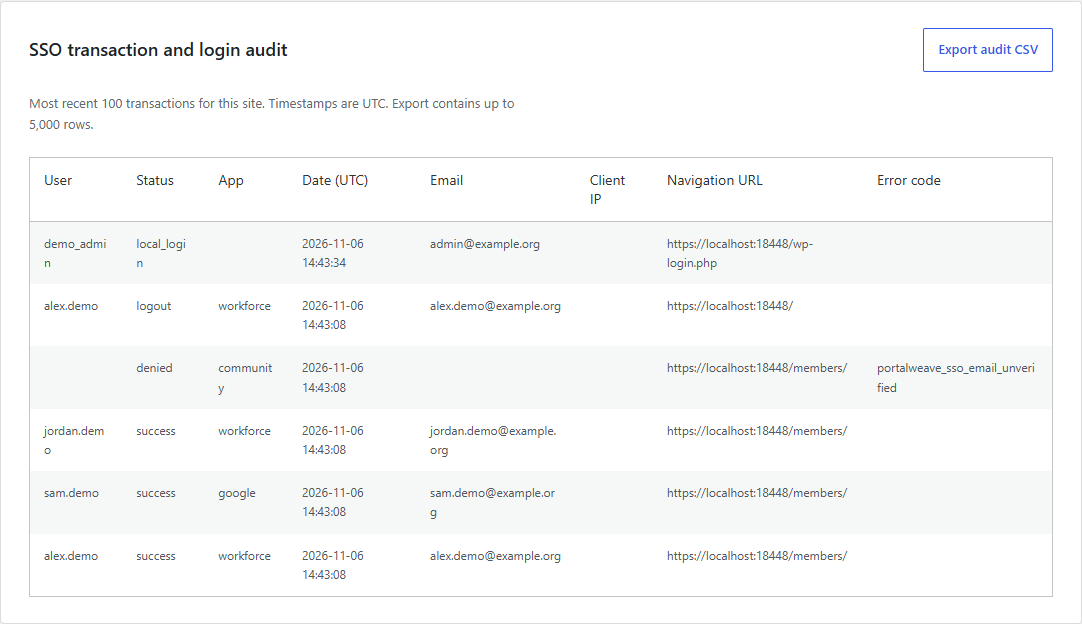
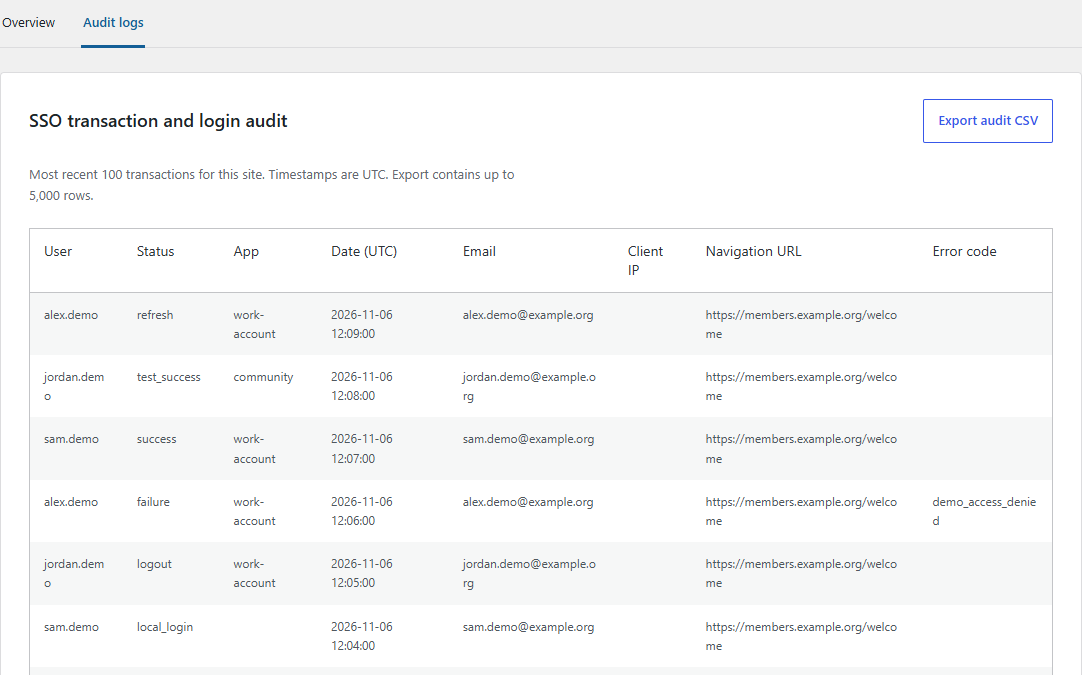
docs: explain activity charts and refresh screenshots

diff --git a/docs/admin-design.md b/docs/admin-design.md
@@ -10,7 +10,7 @@ PortalWeave's administrator UI is organized around tasks, using server-rendered 
 | Access policies | Site/domain/content/media restrictions and network enforcement |
 | Appearance | Login buttons, widget text and signed-in messages |
 | Integrations | Optional modules, SCIM/shared credentials and AI abilities |
-| Activity | Audit transactions, collection choices, retention and debugging |
+| Activity | Retained-event overview, audit logs, collection choices, retention and debugging |
 | Tools & support | Configuration backup/restore, troubleshooting and support |
 
 Navigation uses real URLs and works without JavaScript. The current screen is marked with `aria-current="page"`. Overview and the provider list render no settings form. Each editor posts its explicit screen scope, preserves the truncation sentinel and returns to that screen after saving or validation failure. Adding a provider uses a separate `new_provider=1` flag; an existing provider whose ID is `new` remains editable normally.
@@ -37,6 +37,26 @@ Validated provider, settings, import and support submissions show an action-spec
 
 Guided forms submit an explicitly allowed scalar `provider_setup` map, accepted only for new-provider creation and never alongside an existing provider map. `ProviderSetup::prepare()` validates the selected catalog, fields, conditions, HTTPS addresses, issuer conventions and opaque credentials, then derives the ordinary provider configuration on the server. `AdminSettings::prepare()` reuses its existing one-provider preservation path before `Config::save()`. JavaScript does not supply authoritative endpoints or policy defaults. Unsupported discovery assumptions are exposed as explicit provider inputs rather than fetched remotely or filled with placeholders.
 
+## Activity views
+
+Activity opens Overview by default, with a separate Audit logs view. Ordinary server-rendered links preserve browser history and work without JavaScript. GET `activity_view` accepts only `overview` or `audit`; `activity_days` accepts 7, 30 or 90, defaulting to 30. Audit preference forms carry the corresponding allowlisted POST context so scoped saves and validation errors return to the same view and overview period. Navigation values are not stored settings. Overview renders no preference form, raw audit rows or CSV control.
+
+`Audit::summary()` aggregates all retained rows in the selected range, independently of the audit table's latest-100 limit. The window includes today and the preceding calendar days in UTC; today is partial, and zero-event days are included. One prepared SQL statement returns daily/category counts and the eight most active provider identifiers from one read view. Remaining provider events form a remainder bucket. Configured names label known identifiers, with an identifier fallback; a displayed empty identifier is labelled WordPress / system. The API does not fetch user IDs, usernames, emails, IPs, navigation URLs or error codes, and creates no new store or cache.
+
+The categories are fixed audit statuses, not distinct people, sessions or authentication attempts:
+
+| Category | Recorded statuses |
+| --- | --- |
+| Sign-in events | `success`, `local_login` |
+| Failure events | `failure`, `local_failure` |
+| Sign-out events | `logout`, `local_logout` |
+| Provider test events | `test_success` |
+| Other events | Every remaining status, including refresh, provisioning and administrative events |
+
+One action may generate several events. Retention and disabled collection can leave gaps; switching collection off does not hide retained history. An empty period gets explicit guidance, while an aggregate query error displays an unavailable notice instead of zero statistics. In Network Admin, history still belongs to the current site. Provider labels and the collection-status notice use that site's active configuration, including enforced network policy, rather than an inactive network draft.
+
+The daily SVG has an accessible name and description, supplementary native hover titles and an equivalent expandable date/count table. Category and provider bars expose their labels and numeric values as text. Chart and table scroll regions support keyboard access; the two-column table fits narrow layouts and the timeline scrolls within its container. Rendering requires no JavaScript, chart library or remote assets. Audit logs retains the latest 100 rows, CSV export of up to 5,000 rows and existing collection/retention controls; the overview period does not filter those rows or the export.
+
 ## Visual and interaction choices
 
 The layout uses WordPress's inherited system font, white surfaces, cool gray borders and blue actions. Persistent task navigation provides hierarchy; the main content shows one task rather than a long page of unrelated controls. The setup workbench uses a genuine numbered sequence and a single main task beside its provider-console guidance, rather than repeated settings cards. On narrow screens the guide moves below the fields, progress wraps, navigation moves above content and the audit table scrolls within its container. Controls have visible keyboard focus, associated labels/help and generous touch targets. No remote fonts, frontend framework or production dependency was added.
@@ -47,6 +67,6 @@ The design work used the official [frontend-design skill](https://github.com/ant
 
 ## Verification
 
-PHP regression checks cover screen isolation, active navigation, secret-free rendering, scoped writes, retained providers/credentials, checkbox false values, malformed/cross-screen inputs and real multisite credential preservation. Guided-setup regressions additionally cover every recipe's derived endpoints, issuer variants, conditional/public clients, exact secret bytes, creation-only scope and the actual administrative POST/redirect boundary. Existing protocol and account tests remain applicable.
+PHP regression checks cover screen isolation, active navigation, secret-free rendering, scoped writes, retained providers/credentials, checkbox false values, malformed/cross-screen inputs and real multisite credential preservation. Guided-setup regressions additionally cover every recipe's derived endpoints, issuer variants, conditional/public clients, exact secret bytes, creation-only scope and the actual administrative POST/redirect boundary. Activity regressions cover UTC boundaries, full-range totals, category/provider grouping, private-field exclusion, empty/error handling, view/range round trips and current-site multisite scope. Existing protocol and account tests remain applicable.
 
 Browser verification uses the disposable integration site and fake providers, snapshots/restores raw settings, and exercises desktop/mobile layout, keyboard focus, history, no-JavaScript navigation, provider presets and real form submissions. Raw captures, traces and authenticated test browser state stay in ignored local artifact paths such as `output/playwright/`; they must never be committed or shipped. Reviewed product screenshots with clearly fictional sample data may be saved separately in `docs/screenshots/` for the README, following the [repository screenshot guidance](../AGENTS.md#documentation-and-screenshots). Those images are excluded from the production ZIP. Current CI reports are the authoritative runtime evidence; historical counts in older verification notes do not describe every later revision.

diff --git a/docs/provider-setup.md b/docs/provider-setup.md
@@ -132,6 +132,16 @@ Before removal, back up the database and vault together. If a file should become
 
 Configuration download is credential-free JSON. Restore it through the import form or `wp portalweave-sso import backup.json`. Importing into the same installation preserves omitted or redacted client IDs and stored secrets according to the app ID. On a clean installation, incomplete restored apps and login enforcement are disabled; enter credentials, test SSO, and enable your intended access policy. An independent database backup, including the WordPress salts used for encryption and the private media directory, is required for complete recovery.
 
+### Activity overview and audit logs
+
+**Activity > Overview** shows retained events for the current site over 7, 30 or 90 UTC calendar days; 30 days is the default. The displayed dates include today, which is partial. Counts cover every retained audit row in the period, not just the latest 100. They describe events, not unique users or attempts: one action can create multiple entries. The fixed categories are sign-ins, failures, sign-outs, successful provider tests and other events; sign-ins include SSO and WordPress password login, while other events include refreshes, provisioning and administrative operations.
+
+The daily chart has an expandable **View daily counts** table containing the same dates and counts, including zero days. Event-type and provider bars also show numeric values as text. The eight most active provider identifiers are shown, with remaining events grouped under **Other providers**; displayed events without a provider use **WordPress / system**. Navigation and charts work without JavaScript, with keyboard-accessible scrolling on narrow screens.
+
+Retained history remains visible when collection is off. Retention and periods without collection can leave gaps; an empty period does not prove that no sign-ins occurred. An empty result has its own guidance, while a loading error shows an unavailable message. In Network Admin, this is still the current site's history, not a combined network report. Provider labels and collection status follow the settings active for that site.
+
+**Activity > Audit logs** retains the latest 100 transactions, CSV export of up to 5,000 rows and the collection/retention preferences. The overview period does not filter this table or the CSV. The view and selected overview period are retained when switching views or saving these scoped preferences, including after a validation error.
+
 The transaction table and CSV include username, status, app, UTC time, email, navigation URL and stable error code. Audit collection starts enabled, with a default retention of 90 days. **Include client IP addresses in audit events** is a separate opt-in and is off by default. Turn off **Record SSO transactions and login audit events** to stop new collection; existing rows remain until cleanup. CSV fields are protected from spreadsheet formula interpretation. Diagnostic debug events are optional, bounded to 500 entries, and pruned after seven days. Scheduled removal requires working WordPress cron.
 
 Configure your own support email, booking link, forum link, and demo/trial link. The support form sends mail only when an authorized administrator submits it. **Send Plugin Configuration** excludes client IDs, secrets, passwords, and tokens; endpoint URLs and policy remain included.

diff --git a/docs/privacy.md b/docs/privacy.md
@@ -20,6 +20,14 @@ The plugin sends no usage analytics or telemetry to its developer. Authenticatio
 
 **Test SSO Config** displays the raw returned attribute set to the initiating authenticated administrator. Review it privately. A screenshot, copied result, CSV download, WordPress personal-data export or support message can create another copy of personal data outside the plugin's retention controls.
 
+### Local activity statistics
+
+The administrator-only Activity Overview aggregates retained rows from the existing site-local audit table over 7, 30 or 90 UTC calendar days, including a partial current day. It returns daily counts, fixed event categories and up to eight provider identifiers with a remainder count. It does not read or display the audit rows' user IDs, usernames, emails, IP addresses, navigation URLs or error codes. Provider names come from the current site's active configuration. Network Admin does not combine other sites' history.
+
+These are recorded-event counts, not unique people or authentication attempts. Disabled collection and retention cleanup can leave gaps. Turning collection off still permits viewing retained history, and erasing identifying audit fields does not remove the remaining event counts. The overview adds no separate analytics store, aggregate cache, cookies, remote chart library or telemetry request; its charts and equivalent daily table are rendered locally. Empty history and a failed statistics query are reported separately.
+
+The separate Audit logs view still displays the latest 100 personal audit rows and offers CSV export of up to 5,000 rows. Selecting an overview period does not filter that view or its export, or change collection/retention preferences. Existing administrator permissions, scoped saving, collection choices and cleanup remain in effect.
+
 ## Cookies and retention
 
 | Cookie or record | Lifetime and handling |

diff --git a/docs/screenshots/README.md b/docs/screenshots/README.md
@@ -8,6 +8,8 @@ The gallery covers overview, provider choice and setup, public login and shortco
 
 Existing-provider configuration uses its seven tabs; capture the appropriate active tab for mapping and account-policy views. Keep these editor screenshots distinct from the step-by-step creation guide.
 
+Activity screenshots separate the count-only Overview from Audit logs. Chart history is fictional seeded data; capture the selected UTC period and labels so the sample does not imply live authentication or complete historical coverage.
+
 Review images individually for clipping, misleading state and sensitive data before replacing them. Update the matching README captions and alternative text when the interface changes. Raw browser output, authenticated profiles, cookies, traces and fixture setup files stay in ignored local artifact directories.
 
 These are repository documentation assets. Both the production allowlist and `.distignore` exclude this directory from the installable plugin ZIP. Follow [AGENTS.md](../../AGENTS.md#documentation-and-screenshots) and the [disposable verification guidance](../verification.md#reproduce-the-current-checks) when refreshing the gallery.

diff --git a/README.md b/README.md
@@ -104,7 +104,11 @@ Enable provisioning, shared sign-in, guest accounts, moderation and other module
 <details>
 <summary>Activity, backups and network administration</summary>
 
-Review login activity and choose audit collection and retention settings.
+See daily trends, event types and provider activity over 7, 30 or 90 days.
+
+![Activity overview showing daily event charts, event types and provider activity](docs/screenshots/activity-overview.png)
+
+Open **Audit logs** to inspect individual records, export CSV and choose collection and retention settings.
 
 ![Activity report containing fictional sample login events](docs/screenshots/activity.png)
 
